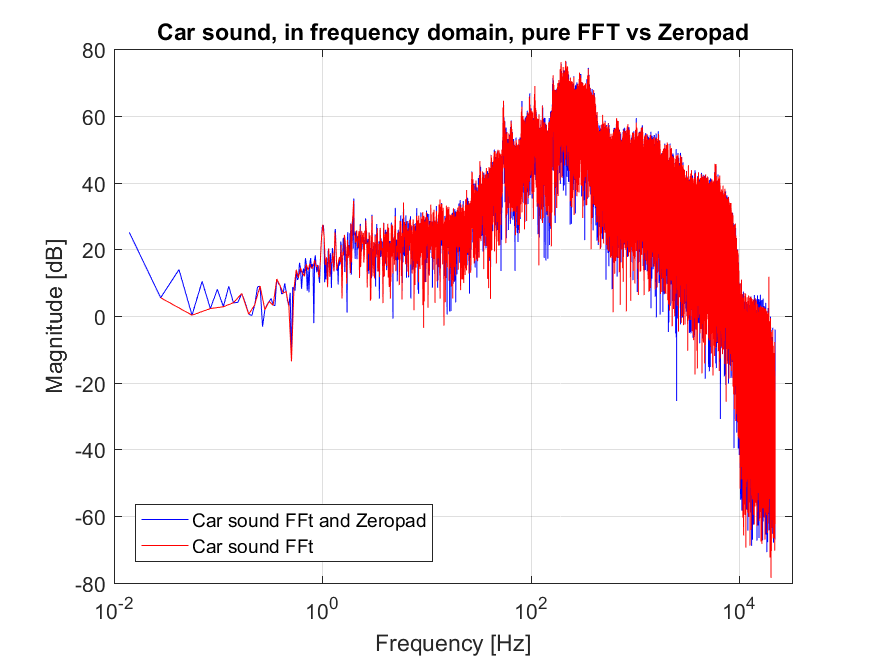
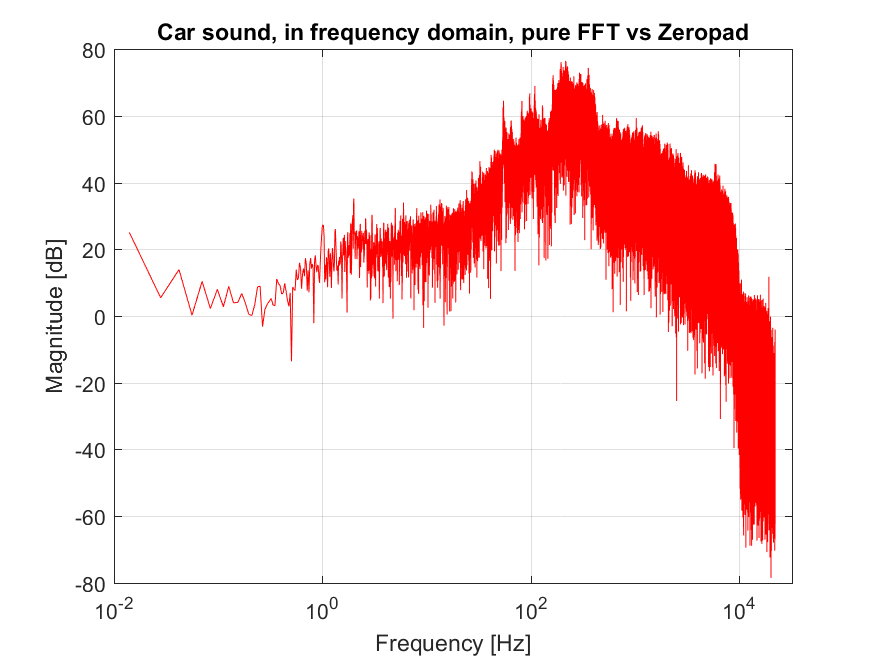
Kun 1 graf pr. figur

diff --git a/code/car.m b/code/car.m
@@ -40,14 +40,14 @@ YSmooth = smooth(YdB);
 
 % Mix of smooth and discrete fourier transform
 figure(3);
-semilogx(frequency_samples(1:N/2), YdB(1:N/2), 'r');
+%semilogx(frequency_samples(1:N/2), YdB(1:N/2), 'r');
+semilogx(frequency_samples(1:N/2), YSmooth(1:N/2), 'r');
 hold on
 title([figureTitle, ' sound, in frequency domain, pure FFT vs Smooth']);
 xlabel('Frequency [Hz]');
 ylabel('Magnitude [dB]');
 xlim([10^-2 Fs/2+10000])
-semilogx(frequency_samples(1:N/2), YSmooth(1:N/2), 'b');
-legend([figureTitle,' sound FFt'],[figureTitle,' sound FFt and Smooth'], 'Location', 'southwest');
+%legend([figureTitle,' sound FFt'],[figureTitle,' sound FFt and Smooth'], 'Location', 'southwest');
 grid on
 hold off
 
@@ -61,14 +61,14 @@ f_zpad_samples = [0:Fs/N_zpad: (Fs-(Fs/N_zpad))];
 YdB_zpad = 20*log10(abs(Y_zpad));
 
 figure(4);
-semilogx(f_zpad_samples(1:N_zpad/2), YdB_zpad(1:N_zpad/2), 'b');
+semilogx(f_zpad_samples(1:N_zpad/2), YdB_zpad(1:N_zpad/2), 'r');
 hold on
 title([figureTitle, ' sound, in frequency domain, pure FFT vs Zeropad']);
 xlabel('Frequency [Hz]');
 ylabel('Magnitude [dB]');
 xlim([10^-2 Fs/2+10000])
-semilogx(frequency_samples(1:N/2), YdB(1:N/2), 'r');
-legend([figureTitle,' sound FFt and Zeropad'],[figureTitle,' sound FFt'], 'Location', 'southwest');
+%semilogx(frequency_samples(1:N/2), YdB(1:N/2), 'r');
+%legend([figureTitle,' sound FFt and Zeropad'],[figureTitle,' sound FFt'], 'Location', 'southwest');
 grid on
 hold off
 
@@ -80,14 +80,14 @@ Y_win = fft(y_win);
 YdB_win = 20*log10(abs(Y_win));
 
 figure(5);
-semilogx(frequency_samples(1:N/2),YdB_win(1:N/2), 'b');
+semilogx(frequency_samples(1:N/2),YdB_win(1:N/2), 'r');
+%semilogx(frequency_samples(1:N/2), YdB(1:N/2), 'r');
 hold on
 title([figureTitle, ' sound, in frequency domain, FFT vs Hamming windowing']);
 xlabel('Frequency [Hz]');
 ylabel('Magnitude [dB]');
 xlim([10^-2 Fs/2+10000])
-semilogx(frequency_samples(1:N/2), YdB(1:N/2), 'r');
-legend([figureTitle,' sound FFt and Hamming windowing'],[figureTitle,' sound FFt'], 'Location', 'southwest');
+%legend([figureTitle,' sound FFt and Hamming windowing'],[figureTitle,' sound FFt'], 'Location', 'southwest');
 grid on
 hold off
 
